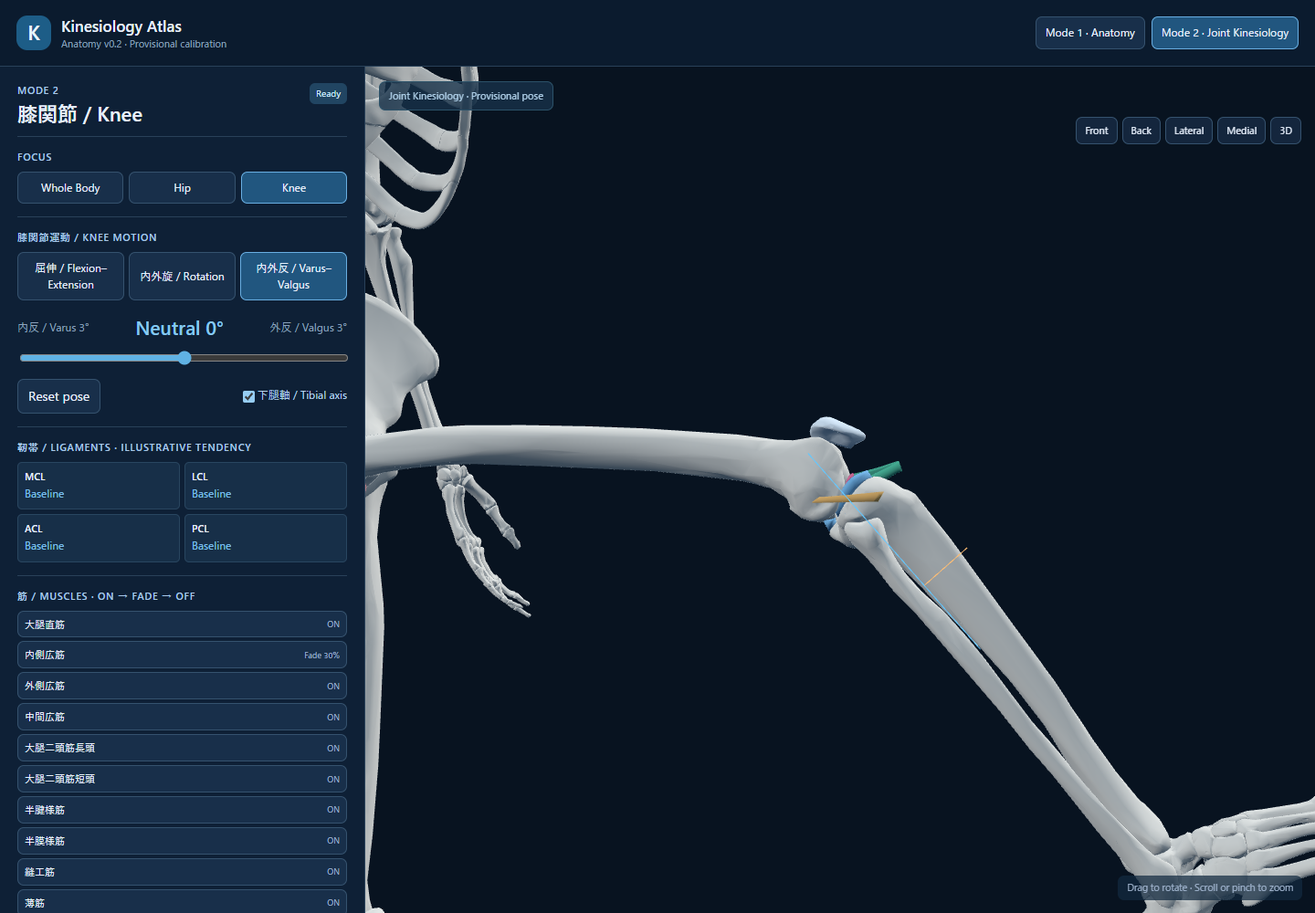
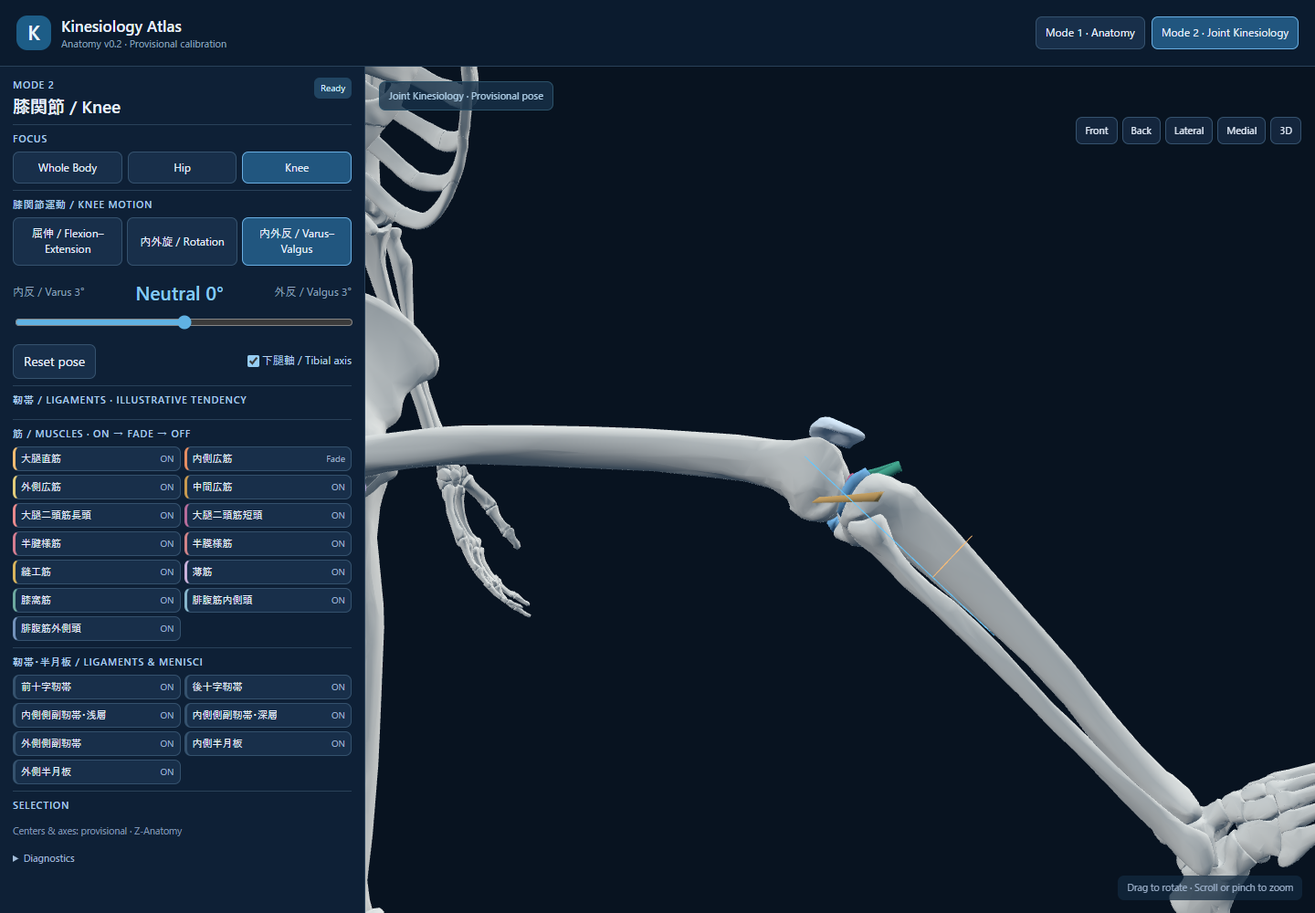
Restore Hip identity colors and compact panels; validate knee movement signs

diff --git a/src/main.js b/src/main.js
@@ -2,8 +2,10 @@ import * as THREE from 'three';
 import {OrbitControls} from 'three/addons/controls/OrbitControls.js';
 import {GLTFLoader} from 'three/addons/loaders/GLTFLoader.js';
 import {DRACOLoader} from 'three/addons/loaders/DRACOLoader.js';
-import {KNEE,PRESETS} from '../config/knee.js';
-import {screwHomeExternalRotationDeg,teachingLigamentTendency} from './kinematics.js';
+import {KNEE} from '../config/knee.js';
+import {teachingLigamentTendency} from './kinematics.js';
+import {muscleColors,hipLigamentColors} from './palette.js';
+import {kneePose} from './joint-motion.js';
 
 import {tissues,tissueByName,nextVisibility,relevant,focusStates,englishName,japaneseName} from './anatomy.js';
 
@@ -21,8 +23,8 @@ const BASES=[...(new URLSearchParams(location.search).has('localModels')?['.cach
 const assets=['skeletal','joints','muscular'];const modelSources=new Map(),liveRoots=[];const registered=new Map(),originalMaterials=new Map(),category=new Map(),meshInfo=new Map(),visibleStates=new Map();
 let poseTarget=null;
 let mode='anatomy',focus='body',motion='flex',motionValue=90,activeSelection=null;
+const motionValues={flex:90,rot:0,stress:0};
 let hipWorldPoint=null,kneeWorldPoint=null,kneeModelReady=false,sideSign=1,fullBox=null,kneeScale=1,modelLoaded=false,patellaBasePosition=new THREE.Vector3();
-const DEG=Math.PI/180;
 const tissueStates=focusStates('body');
 const materialPalette={bone:0xe6e0d5,patella:0xe3ecf1,acl:0xec739b,pcl:0xb88add,mcl:0x53c9a3,lcl:0xf1b96b,meniscus:0x79b6df,muscle:0xc98283};
 const rig={hip:new THREE.Group(),knee:new THREE.Group(),patella:new THREE.Group()};
@@ -39,7 +41,8 @@ function ancestryDepth(n){let k=0;for(let p=n.parent;p;p=p.parent)k++;return k}
 function flatten(){scene.updateMatrixWorld(true);for(let obj of [...registered.values()].sort((a,b)=>ancestryDepth(b)-ancestryDepth(a))){if(obj.parent!==scene)scene.attach(obj)}scene.updateMatrixWorld(true)}
 function getMeshes(name){const root=registered.get(name),meshes=[];if(!root)return meshes;root.traverse(o=>{if(o.isMesh&&nearestNamed(o)===name)meshes.push(o)});return meshes;}
 function baseMaterial(name){const kind=category.get(name);let color=materialPalette.bone;if(name==='Patella.r')color=materialPalette.patella;
- if(kind==='muscle')color=materialPalette.muscle;if(kind==='meniscus')color=materialPalette.meniscus;
+ if(kind==='muscle')color=muscleColors[name];if(kind==='meniscus')color=materialPalette.meniscus;
+ if(hipLigamentColors[name])color=hipLigamentColors[name];
  if(name.includes('Anterior cruciate'))color=materialPalette.acl;
  if(name.includes('Posterior cruciate'))color=materialPalette.pcl;
  if(name.includes('tibial collateral'))color=materialPalette.mcl;
@@ -62,7 +65,7 @@ function updateVisibility(){
 function cycleTissue(name){tissueStates.set(name,nextVisibility(tissueStates.get(name)));updateVisibility();if(activeSelection)selectStructure(activeSelection,{showFloating:!$('floatingSelection').hidden});}
 function syncTissueUI(){for(const row of document.querySelectorAll('[data-tissue]')){
  const name=row.dataset.tissue;row.hidden=!relevant(name,focus);row.dataset.state=tissueStates.get(name)||'off';
- row.querySelector('small').textContent=registered.has(name)?(row.dataset.state==='fade'?'Fade 30%':row.dataset.state.toUpperCase()):'Unavailable';
+ row.querySelector('small').textContent=registered.has(name)?(row.dataset.state==='fade'?'Fade':row.dataset.state.toUpperCase()):'Unavailable';
  row.disabled=!registered.has(name);
 }}
 // Fade only when left geometry overlaps the right skeleton in screen space and is nearer.
@@ -122,20 +125,11 @@ function buildAxis(){axisGroup.clear();const l=Math.max(kneeScale*1.35,.001);
  axisGroup.traverse(o=>{o.renderOrder=50});}
 function updatePose(){if(!kneeModelReady)return;
  const moving=mode==='kinesiology'&&focus==='knee';
- const flex=!moving?0:motion==='flex'?motionValue:motion==='rot'?90:30;
- const rot=moving&&motion==='rot'?motionValue:0;
- const valgus=moving&&motion==='stress'?motionValue:0;
- // Femur follows a fixed educational hip flexion posture; knee axes remain in the femoral local frame.
- const hipQ=new THREE.Quaternion().setFromAxisAngle(new THREE.Vector3(1,0,0),-(moving?KNEE.startingHipFlexionDeg:0)*DEG);
- const screw=!moving?0:screwHomeExternalRotationDeg(flex,KNEE.screwHomeMaxExternalRotationDeg,KNEE.screwHomeWindowDeg);
- const qFlex=new THREE.Quaternion().setFromAxisAngle(new THREE.Vector3(1,0,0),flex*DEG);
- const qRotation=new THREE.Quaternion().setFromAxisAngle(new THREE.Vector3(0,1,0),sideSign*(rot+screw)*DEG);
- const qStress=new THREE.Quaternion().setFromAxisAngle(new THREE.Vector3(0,0,1),-sideSign*valgus*DEG);
- const kneeQ=qFlex.multiply(qRotation).multiply(qStress);
+ const pose=kneePose(motion,motionValue,sideSign,{anatomy:!moving});const flex=pose.angles.flex;
  // Small, illustrative proximal/distal patellar glide; not a measured patellofemoral trajectory.
  const patellaPosition=patellaBasePosition.clone();
  patellaPosition.y-=(flex/140)*kneeScale*.10;
- poseTarget={hip:hipQ,knee:kneeQ,patella:patellaPosition};
+ poseTarget={hip:pose.hip,knee:pose.knee,patella:patellaPosition};
  axisGroup.visible=$('axisToggle').checked&&moving;
  const p=teachingLigamentTendency(motion,motionValue);
  $('ligamentStatus').innerHTML=['mcl','lcl','acl','pcl'].map(key=>`<div class="ligItem"><strong>${key.toUpperCase()}</strong><span>${({'強調':'Emphasized','通常':'Baseline','角度依存':'Angle dependent','弛緩傾向':'Reduced restraint'})[p[key]]||'Baseline'}</span></div>`).join('');
@@ -151,16 +145,16 @@ function frameFocus(f=focus){if(!modelLoaded)return;
 function setFocus(f){focus=f;activeSelection=null;$('selectedStructure').textContent='Click a structure';$('floatingSelection').hidden=true;
  for(const el of document.querySelectorAll('[data-focus]'))el.classList.toggle('selected',el.dataset.focus===f);
  for(const [name,state] of focusStates(f))tissueStates.set(name,state);
- if(f==='body'){motion='flex';motionValue=90;for(const b of document.querySelectorAll('[data-motion]'))b.classList.toggle('selected',b.dataset.motion==='flex');$('motionSlider').min=0;$('motionSlider').max=140;$('motionSlider').value=90;}
+ if(f==='body'){Object.assign(motionValues,{flex:90,rot:0,stress:0});setMotion('flex');}
  updateModeUI();updatePose();updateVisibility();
  // Focus is an intentional framing operation; frame the target pose rather than an intermediate tween.
  if(poseTarget){rig.hip.quaternion.copy(poseTarget.hip);rig.knee.quaternion.copy(poseTarget.knee);rig.patella.position.copy(poseTarget.patella);scene.updateMatrixWorld(true);}
  frameFocus(f);
 }
-function setMotion(m){motion=m;motionValue=PRESETS[m].knee===90?90:0;if(m==='rot'||m==='stress')motionValue=0;
+function setMotion(m){motion=m;motionValue=motionValues[m];
  for(const el of document.querySelectorAll('[data-motion]'))el.classList.toggle('selected',el.dataset.motion===m);
  const sl=$('motionSlider');const ranges={flex:[0,140,90,'伸展 / Extension 0°','屈曲 / Flexion 140°'],rot:[-15,30,0,'内旋 / Internal 15°','外旋 / External 30°'],stress:[-3,3,0,'内反 / Varus 3°','外反 / Valgus 3°']};
- const v=ranges[m];sl.min=v[0];sl.max=v[1];sl.value=v[2];motionValue=v[2];$('negativeLabel').textContent=v[3];$('positiveLabel').textContent=v[4];updatePose()}
+ const v=ranges[m];sl.min=v[0];sl.max=v[1];sl.value=motionValue;$('negativeLabel').textContent=v[3];$('positiveLabel').textContent=v[4];updatePose()}
 function updateModeUI(){
  const moving=mode==='kinesiology';
  $('motionSection').hidden=!(moving&&focus==='knee');
@@ -177,7 +171,8 @@ function setView(v){if(!modelLoaded)return;const target=controls.target.clone(),
  const dirs={front:[0,0,1],back:[0,0,-1],lateral:[sideSign,0,0],medial:[-sideSign,0,0],iso:[sideSign*.8,.4,1]};camera.position.copy(target).add(new THREE.Vector3(...dirs[v]).normalize().multiplyScalar(d));camera.up.set(0,1,0);controls.update();}
 function uiMuscleList(){for(const [name,jp,kind] of tissues){
  const b=document.createElement('button');b.type='button';b.dataset.tissue=name;
- const title=document.createElement('span');title.textContent=kind==='muscle'?jp:jp+' / '+englishName(name);const state=document.createElement('small');b.append(title,state);
+ const title=document.createElement('span');title.textContent=jp;const state=document.createElement('small');b.append(title,state);
+ const color=muscleColors[name]||hipLigamentColors[name];if(color)b.style.setProperty('--tissue-color','#'+color.toString(16).padStart(6,'0'));
  b.addEventListener('click',()=>cycleTissue(name));$(kind==='muscle'?'muscleList':'ligamentList').append(b);
 }}
 function highlightSelected(name){for(const [k,m] of originalMaterials){const picked=k===name&&visibleStates.get(k)!=='off';m.emissive.setHex(picked?0x2e7baa:0x000000);m.emissiveIntensity=picked?.12:0;}}
@@ -196,7 +191,7 @@ function selectStructure(name,{point=null,showFloating=true}={}){activeSelection
  for(const id of ['selectedStructure','floatingSelection']){const el=$(id);el.replaceChildren();
   const title=document.createElement('div');title.className='selectedName';title.textContent=japaneseName(name)||englishName(name);el.append(title);
   if(id==='floatingSelection'){const en=document.createElement('div');en.className='selectedEnglish';en.textContent=englishName(name);el.append(en);}
-  if(category.get(name)!=='bone'){const button=document.createElement('button');const state=tissueStates.get(name)||'off';button.textContent=state==='fade'?'Fade 30%':state.toUpperCase();button.addEventListener('click',()=>cycleTissue(name));el.append(button);}
+  if(category.get(name)!=='bone'){const button=document.createElement('button');const state=tissueStates.get(name)||'off';button.textContent=state==='fade'?'Fade':state.toUpperCase();button.addEventListener('click',()=>cycleTissue(name));el.append(button);}
   else {const label=document.createElement('small');label.textContent='Skeleton · ON';el.append(label);}
  }
  $('floatingSelection').hidden=!showFloating;positionSelection();
@@ -222,8 +217,8 @@ for(const b of document.querySelectorAll('[data-focus]'))b.addEventListener('cli
 for(const b of document.querySelectorAll('[data-view]'))b.addEventListener('click',()=>setView(b.dataset.view));
 for(const b of document.querySelectorAll('[data-motion]'))b.addEventListener('click',()=>setMotion(b.dataset.motion));
 $('axisToggle').addEventListener('change',updatePose);
-$('motionSlider').addEventListener('input',e=>{motionValue=+e.target.value;updatePose()});
-$('resetPose').addEventListener('click',()=>setMotion(motion));
+$('motionSlider').addEventListener('input',e=>{motionValue=+e.target.value;motionValues[motion]=motionValue;updatePose()});
+$('resetPose').addEventListener('click',()=>{motionValues[motion]=motion==='flex'?90:0;setMotion(motion)});
 $('mobilePanel').addEventListener('click',()=>{$('sidebar').classList.toggle('collapsed');size()});
 if(matchMedia('(max-width:740px)').matches)$('sidebar').classList.add('collapsed');
 async function loadOne(name){const errs=[];for(const base of BASES){try{
@@ -270,4 +265,4 @@ function tick(now=performance.now()){requestAnimationFrame(tick);const dt=Math.m
  controls.update();scene.updateMatrixWorld(true);fadeLeftSkeleton();renderer.render(scene,camera);
 }tick();boot();
 // Read-only QA snapshot, opt in locally with ?qa; no remote controls.
-if(new URLSearchParams(location.search).has('qa'))window.atlasQA=()=>({mode,focus,camera:camera.position.toArray(),target:controls.target.toArray(),states:Object.fromEntries(tissueStates),tissueMeshes:tissues.map(([n])=>({name:n,count:getMeshes(n).length,visible:getMeshes(n).every(m=>m.visible),opacity:originalMaterials.get(n)?.opacity})),focusNDC:(focus==='knee'?rig.knee.getWorldPosition(new THREE.Vector3()):hipWorldPoint?.clone())?.project(camera).toArray(),bones:[...category].filter(([,k])=>k==='bone').map(([n])=>({name:n,visible:getMeshes(n).every(m=>m.visible),opacity:originalMaterials.get(n).opacity})),registered:[...registered.keys()],hip:rig.hip.quaternion.toArray(),knee:rig.knee.quaternion.toArray()});
+if(new URLSearchParams(location.search).has('qa'))window.atlasQA=()=>({mode,focus,motion,motionValue,motionValues:{...motionValues},calibration:{status:KNEE.status,hipCenter:hipWorldPoint?.toArray(),kneeCenter:kneeWorldPoint?.toArray(),axes:{flex:[1,0,0],axial:[0,1,0],stress:[0,0,1]},sideSign},camera:camera.position.toArray(),target:controls.target.toArray(),states:Object.fromEntries(tissueStates),tissueMeshes:tissues.map(([n])=>({name:n,color:originalMaterials.get(n)?.color.getHex(),count:getMeshes(n).length,visible:getMeshes(n).every(m=>m.visible),opacity:originalMaterials.get(n)?.opacity})),focusNDC:(focus==='knee'?rig.knee.getWorldPosition(new THREE.Vector3()):hipWorldPoint?.clone())?.project(camera).toArray(),bones:[...category].filter(([,k])=>k==='bone').map(([n])=>({name:n,visible:getMeshes(n).every(m=>m.visible),opacity:originalMaterials.get(n).opacity})),registered:[...registered.keys()],hip:rig.hip.quaternion.toArray(),knee:rig.knee.quaternion.toArray()});

diff --git a/tests/ui/motion.spec.js b/tests/ui/motion.spec.js
@@ -1,0 +1,39 @@
+import {test,expect} from '@playwright/test';
+import path from 'node:path';
+import {writeFileSync} from 'node:fs';
+
+test('Knee motion directions, saved angles, mode continuity and compact panel',async({page})=>{
+ const errors=[];page.on('pageerror',e=>errors.push(e.message));
+ await page.route('https://cdn.jsdelivr.net/npm/three@0.160.0/**',r=>r.fulfill({path:path.resolve('node_modules/three',r.request().url().split('three@0.160.0/')[1])}));
+ await page.goto('http://127.0.0.1:8080/?localModels&qa');await expect(page.locator('#modelStatus')).toHaveText('Ready');
+ const snap=()=>page.evaluate(()=>window.atlasQA());
+ await page.locator('[data-focus="knee"]').click();await page.locator('[data-mode="kinesiology"]').click();
+ await expect.poll(async()=>Math.abs((await snap()).hip[0])).toBeGreaterThan(.706);
+ const initial=await snap();writeFileSync('test-results/joint-calibration.json',JSON.stringify(initial.calibration,null,2));
+ const input=async value=>{await page.locator('#motionSlider').evaluate((el,v)=>{el.value=v;el.dispatchEvent(new Event('input',{bubbles:true}));},String(value));};
+ await input(65);await expect(page.locator('#angleReadout')).toHaveText('65°');
+ await page.locator('[data-motion="rot"]').click();await input(20);await expect(page.locator('#angleReadout')).toContainText('External 20°');
+ await page.locator('[data-motion="flex"]').click();await expect(page.locator('#motionSlider')).toHaveValue('65');
+ await page.locator('[data-mode="anatomy"]').click();await page.locator('[data-mode="kinesiology"]').click();await expect(page.locator('#motionSlider')).toHaveValue('65');
+ await page.locator('[data-motion="stress"]').click();await input(3);await expect(page.locator('#angleReadout')).toContainText('Valgus 3°');
+ await expect.poll(async()=>(await snap()).knee[2]).toBeLessThan(0);
+ await input(-3);await expect(page.locator('#angleReadout')).toContainText('Varus 3°');await expect.poll(async()=>(await snap()).knee[2]).toBeGreaterThan(0);
+ await page.locator('#resetPose').click();await expect(page.locator('#motionSlider')).toHaveValue('0');
+ await page.locator('[data-motion="flex"]').click();await page.locator('#resetPose').click();await expect(page.locator('#motionSlider')).toHaveValue('90');
+ const end=await snap();expect(end.bones.every(b=>b.visible)).toBeTruthy();expect(end.states).toEqual(initial.states);
+ await page.setViewportSize({width:1280,height:800});
+ await page.screenshot({path:'test-results/knee-motion-compact.png'});
+ const panel=await page.locator('#sidebar').evaluate(el=>({overflow:el.scrollHeight-el.clientHeight,sections:[...el.children].map(c=>({label:c.textContent.slice(0,35),height:c.getBoundingClientRect().height}))}));
+ writeFileSync('test-results/panel-metrics.json',JSON.stringify(panel,null,2));expect(panel.overflow).toBeLessThanOrEqual(1);
+ // Review artifacts only: show the existing center candidate at viewport center.
+ // These crosshairs are injected by the test, never added to the product UI.
+ await page.setViewportSize({width:1440,height:1000});await page.locator('[data-mode="anatomy"]').click();await page.locator('[data-focus="knee"]').click();
+ await page.locator('[data-tissue]').evaluateAll(rows=>{for(const row of rows){if(row.hidden||row.disabled)continue;while(row.dataset.state!=='off')row.click();}});
+ const marker=await page.addStyleTag({content:'.viewport::after{content:"";position:absolute;left:calc(50% - 10px);top:calc(50% - 10px);width:20px;height:20px;border:1px solid #ff7474;border-radius:50%;pointer-events:none}'});
+ for(const view of ['front','lateral']){await page.locator(`[data-view="${view}"]`).click();await page.screenshot({path:`test-results/knee-center-${view}.png`});}
+ await page.locator('[data-mode="kinesiology"]').click();await expect.poll(async()=>Math.abs((await snap()).hip[0])).toBeGreaterThan(.706);
+ await page.screenshot({path:'test-results/knee-flexion90-review.png'});
+ await page.locator('[data-motion="stress"]').click();await input(3);await expect.poll(async()=>(await snap()).knee[2]).toBeLessThan(0);
+ await page.screenshot({path:'test-results/knee-valgus30-review.png'});await marker.evaluate(el=>el.remove());
+ expect(errors).toEqual([]);
+});

diff --git a/index.html b/index.html
@@ -10,12 +10,12 @@
  <div class="group"><label class="smallhead">Focus</label><div class="choicegrid"><button data-focus="body" class="selected" title="Reset to the whole body home view">Whole Body</button><button data-focus="hip">Hip</button><button data-focus="knee">Knee</button></div></div>
  <div id="motionSection" hidden>
   <div class="group"><label class="smallhead">膝関節運動 / Knee motion</label><div class="motionKinds"><button data-motion="flex" class="selected">屈伸 / Flexion–Extension</button><button data-motion="rot">内外旋 / Rotation</button><button data-motion="stress">内外反 / Varus–Valgus</button></div><div class="angleLabels"><span id="negativeLabel">伸展 / Extension 0°</span><strong id="angleReadout">90°</strong><span id="positiveLabel">屈曲 / Flexion 140°</span></div><input aria-label="Joint angle" type="range" id="motionSlider" min="0" max="140" step="1" value="90"><div class="inlineActions"><button id="resetPose">Reset pose</button><label class="check"><input type="checkbox" id="axisToggle">下腿軸 / Tibial axis</label></div></div>
-  <div class="group"><label class="smallhead">靭帯 / Ligaments · Illustrative tendency</label><div class="ligStatus" id="ligamentStatus"></div></div>
+  <details class="group"><summary class="smallhead">靭帯 / Ligaments · Illustrative tendency</summary><div class="ligStatus" id="ligamentStatus"></div></details>
  </div>
  <div class="group"><label class="smallhead">筋 / Muscles · ON → Fade → OFF</label><div id="muscleList" class="tissueList"></div></div>
  <div class="group"><label class="smallhead">靭帯・半月板 / Ligaments &amp; menisci</label><div id="ligamentList" class="tissueList"></div></div>
- <div class="group"><label class="smallhead">Selection</label><div id="selectedStructure" class="selection">Click a structure</div></div>
- <div class="smallprint">Provisional joint centers and axes: pending anatomical validation. Joint motion and tissue tracking are illustrative. Hip motion awaits calibration. Z-Anatomy derived meshes.</div>
+ <details class="group"><summary class="smallhead">Selection</summary><div id="selectedStructure" class="selection">Click a structure</div></details>
+ <div class="smallprint">Centers &amp; axes: provisional · Z-Anatomy</div>
  <details class="diagnostics"><summary>Diagnostics</summary><pre id="diagnostics">Initializing…</pre><label class="fileLabel">Load GLB files<input type="file" id="manualFiles" accept=".glb" multiple></label></details>
 </aside>
 <main id="viewport" class="viewport"><div id="canvasHost"></div><div class="viewTools"><button data-view="front">Front</button><button data-view="back">Back</button><button data-view="lateral" title="Right lateral">Lateral</button><button data-view="medial" title="Right medial">Medial</button><button data-view="iso">3D</button></div><div class="stageBadge" id="stageBadge">Anatomy</div><div id="hoverPopup" class="hoverPopup" hidden></div><div id="floatingSelection" class="floatingSelection selection" hidden></div><div class="loadOverlay" id="loadOverlay"><div class="loader"></div><strong>Loading anatomy models</strong><small>Internet connection required on first load</small></div><div class="stageFoot">Drag to rotate · Scroll or pinch to zoom</div></main></div>

diff --git a/tests/ui/atlas.spec.js b/tests/ui/atlas.spec.js
@@ -9,6 +9,11 @@ test('actual GLBs: Anatomy focus, display cycle, mode continuity and home',async
  const snap=()=>page.evaluate(()=>window.atlasQA());
  const initial=await snap();expect(initial.bones.length).toBeGreaterThan(150);expect(initial.bones.every(b=>b.visible)).toBeTruthy();
  expect(initial.tissueMeshes.every(t=>t.count>0&&t.visible)).toBeTruthy();
+ const muscles=initial.tissueMeshes.filter(t=>t.name.includes('Vastus')||t.name.includes('Gluteus')||t.name.includes('Rectus femoris'));
+ expect(new Set(muscles.map(t=>t.color)).size).toBe(muscles.length);
+ expect(await page.locator('#muscleList').evaluate(el=>getComputedStyle(el).gridTemplateColumns.split(' ').length)).toBe(2);
+ expect(await page.locator('#sidebar').evaluate(el=>el.scrollHeight-el.clientHeight)).toBeLessThanOrEqual(1);
+ expect(await page.locator('#sidebar').textContent()).not.toContain('30%');
  writeFileSync('test-results/model-summary.json',JSON.stringify({bones:initial.bones.length,registered:initial.registered.length},null,2));
  for(const f of ['hip','knee']){await page.locator(`[data-focus="${f}"]`).click();const s=await snap();expect(s.focus).toBe(f);expect(s.bones.length).toBe(initial.bones.length);expect(s.bones.every(b=>b.visible)).toBeTruthy();expect(Math.abs(s.focusNDC[0])).toBeLessThan(.001);expect(Math.abs(s.focusNDC[1])).toBeLessThan(.001);}
  const quad=page.locator('[data-tissue="Vastus medialis muscle.r"]');await expect(quad).toBeEnabled();
@@ -33,7 +38,7 @@ test('actual GLBs: Anatomy focus, display cycle, mode continuity and home',async
  const box=await page.locator('canvas').boundingBox();let picked=false,clickPoint;
  for(let dy=-.12;dy<=.12&&!picked;dy+=.06)for(let dx=-.12;dx<=.12&&!picked;dx+=.06){clickPoint={x:box.x+box.width*(.5+dx),y:box.y+box.height*(.5+dy)};await page.mouse.move(clickPoint.x,clickPoint.y);await page.mouse.click(clickPoint.x,clickPoint.y);picked=await page.locator('#floatingSelection button').isVisible();}
  expect(picked).toBeTruthy();const title=await page.locator('#floatingSelection .selectedName').textContent();
- const old=await page.locator('#floatingSelection button').textContent();const next=({'ON':'Fade 30%','Fade 30%':'OFF','OFF':'ON'})[old];
+ const old=await page.locator('#floatingSelection button').textContent();const next=({'ON':'Fade','Fade':'OFF','OFF':'ON'})[old];
  await page.locator('#floatingSelection button').click();await expect(page.locator('#selectedStructure button')).toHaveText(next);await expect(page.locator('#floatingSelection .selectedName')).toHaveText(title);
  const popup=await page.locator('#floatingSelection').boundingBox();expect(Math.abs(popup.x-clickPoint.x)).toBeLessThan(300);expect(Math.abs(popup.y-clickPoint.y)).toBeLessThan(160);
  await expect(page.locator('#floatingSelection .selectedEnglish')).not.toHaveText('');

diff --git a/src/style.css b/src/style.css
@@ -2,6 +2,19 @@
 
 @media(max-width:740px){.topbar{height:96px;flex-wrap:wrap;align-content:space-between;gap:4px}.brand{width:calc(100% - 72px)}.brand small{display:none}.modes{width:100%;order:3;justify-content:flex-start;gap:5px}.modes button{font-size:10px;padding:6px 7px}.mobileOnly{position:absolute;right:8px;top:8px;padding:5px 9px}.layout{height:calc(100dvh - 96px)}.sidebar{top:96px}.hipFrame{inset:96px 0 0}}
 .floatingSelection{position:absolute;z-index:10;max-width:min(280px,calc(100% - 16px));box-shadow:0 8px 24px #0008}
-.floatingSelection button{margin-top:8px}.tissueList{grid-template-columns:1fr}.tissueList small{flex-shrink:0}.tissueList span{overflow-wrap:anywhere}.viewTools{top:55px}.stageBadge{max-width:90%}
+.floatingSelection button{margin-top:8px}.tissueList{grid-template-columns:repeat(2,minmax(0,1fr))}.tissueList small{flex-shrink:0}.tissueList span{overflow-wrap:anywhere}.viewTools{top:55px}.stageBadge{max-width:90%}
 @media(max-width:740px){.viewTools{top:auto;bottom:65px}}
 .floatingSelection button{min-width:90px;min-height:44px}
+.sidebar{padding:12px 14px}.group{padding:7px 0}.group .smallhead{margin-bottom:6px}.sectionhead h1{font-size:19px;margin-bottom:9px}
+.tissueList button{min-height:27px;padding:3px 6px;border-left:3px solid var(--tissue-color,#35526e)}
+.tissueList button span{font-size:11px;line-height:1.25}.tissueList small{font-size:10px}
+.group .selection{min-height:32px;padding:6px}.ligStatus .ligItem{padding:4px 6px}
+@media(pointer:coarse){.tissueList button{min-height:36px}}
+@media(min-width:741px) and (max-height:850px){
+ .sidebar{padding:8px 12px}.sectionhead h1{font-size:17px;margin:3px 0 5px}.eyebrow{font-size:10px}
+ .group{padding:5px 0}.group .smallhead{margin-bottom:4px}.choicegrid button,.motionKinds button{padding:5px 3px}
+ .motionKinds button{font-size:10px;line-height:1.2}.angleLabels{margin-top:6px;font-size:10px}.angleLabels strong{font-size:17px}
+ .group input[type=range]{margin:4px 0}.inlineActions{margin-top:3px}.inlineActions button{padding:4px 7px;font-size:11px}
+ .tissueList{gap:3px}.tissueList button{min-height:24px;padding:2px 5px}
+ details.group{padding:3px 0;margin:0}.sidebar>.smallprint{display:none}
+}

diff --git a/src/palette.js b/src/palette.js
@@ -1,0 +1,17 @@
+// Hip identity colors preserved from the local legacy/hip reference.
+// Additional knee muscles receive stable, distinct identity colors.
+export const muscleColors=Object.freeze({
+ 'Gluteus maximus muscle.r':0xc45382,'Gluteus medius muscle.r':0xdc7197,'Gluteus minimus muscle.r':0xff97b3,
+ 'Iliacus muscle.r':0xeda75d,'Psoas major.r':0xeeb85d,'Rectus femoris muscle.r':0xf2bc72,'Sartorius muscle.r':0xd9b55d,
+ 'Adductor magnus.r':0xc7a4f0,'Adductor longus.r':0xb98cd9,'Adductor brevis.r':0x9c84d3,'Gracilis muscle.r':0xcbb2db,
+ 'Pectineus muscle.r':0x9db7d7,'Semitendinosus muscle.r':0xd47d91,'Semimembranosus muscle.r':0xd08388,'Long head of biceps femoris.r':0xe98a8d,
+ 'Piriformis muscle.r':0xd7a57c,'Obturator internus.r':0xe29c7c,'Obturator externus.r':0xd89077,'Quadratus femoris muscle.r':0xc98e7a,
+ 'Superior gemellus muscle.r':0xd6a088,'Inferior gemellus muscle.r':0xe0af99,
+ 'Vastus medialis muscle.r':0xe58d62,'Vastus lateralis muscle.r':0xe2cc7a,'Vastus intermedius muscle.r':0xc89a4f,
+ 'Short head of biceps femoris.r':0xb66c9b,'Popliteus muscle.r':0x6eaaa0,
+ 'Medial head of gastrocnemius.r':0x87b6cc,'Lateral head of gastrocnemius.r':0x7392bb
+});
+export const hipLigamentColors=Object.freeze({
+ 'Descending part of iliofemoral ligament.r':0x508efa,'Transverse part of iliofemoral ligament.r':0x508efa,
+ 'Pubofemoral ligament.r':0x36c98c,'Ischiofemoral ligament.r':0xfc9d55
+});

diff --git a/src/joint-motion.js b/src/joint-motion.js
@@ -1,0 +1,19 @@
+import {Quaternion,Vector3} from 'three';
+import {KNEE} from '../config/knee.js';
+import {activeKneeAngles,screwHomeExternalRotationDeg,clamp} from './kinematics.js';
+
+// Right body side is sideSign (negative X in the current GLB).
+// +Z anterior, +Y superior. Axes remain provisional model axes.
+export function kneePose(kind,value,sideSign,{anatomy=false}={}){
+ const ranges={flex:KNEE.flexionRange,rot:KNEE.axialRotationRange,stress:KNEE.stressRange};
+ const range=ranges[kind];if(!range)throw Error('Unknown knee motion: '+kind);
+ const angles=anatomy?{flex:0,rot:0,valgus:0}:activeKneeAngles(kind,clamp(value,...range));
+ const screw=anatomy?0:screwHomeExternalRotationDeg(angles.flex,KNEE.screwHomeMaxExternalRotationDeg,KNEE.screwHomeWindowDeg);
+ const rad=Math.PI/180;
+ const hip=new Quaternion().setFromAxisAngle(new Vector3(1,0,0),-(anatomy?0:KNEE.startingHipFlexionDeg)*rad);
+ const flex=new Quaternion().setFromAxisAngle(new Vector3(1,0,0),angles.flex*rad);
+ const axial=new Quaternion().setFromAxisAngle(new Vector3(0,1,0),sideSign*(angles.rot+screw)*rad);
+ // Positive valgus moves the distal right tibia toward the right lateral side.
+ const stress=new Quaternion().setFromAxisAngle(new Vector3(0,0,1),sideSign*angles.valgus*rad);
+ return {hip,knee:flex.multiply(axial).multiply(stress),angles,screw};
+}

diff --git a/docs/JOINT_MOTION_REVIEW.md b/docs/JOINT_MOTION_REVIEW.md
@@ -1,0 +1,47 @@
+# 関節運動の着手・中心/軸の確認資料
+
+2026-10-30。対象は右膝。解剖学的な中心・軸はまだFIXしていません。
+
+## 今回修正した部分
+
+- 内外反の回転符号が表示と逆だったため修正。外反で下腿遠位が右外側へ、内反で右内側へ向かうことを、局所座標によるテストで確認。
+- 運動種類は屈伸・内外旋・内外反の3種類。各スライダー角度を保持し、種類の切替やAnatomyとの往復で失わないようにしました。Reset poseとWhole Bodyは明示的なリセットです。
+- 姿勢計算を `src/joint-motion.js` に分離。股90°/膝90°、内外反時は膝30°、角度上限、Anatomyでの恒等姿勢、スクリューホームの屈伸従属をテスト。
+- 骨格、表示状態、視線方向・ズームの保持を実ブラウザーで再確認。
+
+## 現在の候補値
+
+値は取得済みGLBのシーン座標。診断スナップショットは [joint-calibration.json](joint-calibration.json)。
+
+| 項目 | X | Y | Z |
+|---|---:|---:|---:|
+| 股中心候補 | -0.082774261 | 0.861128910 | -0.005455872 |
+| 膝中心候補 | -0.076042742 | 0.438329458 | -0.034490695 |
+| 屈伸の仮軸 | 1 | 0 | 0 |
+| 長軸回旋の仮軸 | 0 | 1 | 0 |
+| 内外反の仮軸 | 0 | 0 | 1 |
+
+中心は現行の形状推定値を維持。今回行ったのはコードの符号・肢位・状態保持の検証で、生体関節の運動軸校正ではありません。
+
+赤丸は現行中心候補の投影位置を示す、検証画像専用の注記です。製品に新しい操作UIは追加していません。
+
+- [静止・前面](screenshots/knee-center-front.png)
+- [静止・右外側](screenshots/knee-center-lateral.png)
+- [股90°・膝90°の観察](screenshots/knee-flexion90-review.png)
+- [膝30°・外反の観察](screenshots/knee-valgus30-review.png)
+
+## FIX前の注意点・次の工程
+
+固定ピボットの回転は、生体膝の接触点移動やrollbackを再現していません。実験研究で示される膝の回転軸は単純なグローバルX/Y/Zとは一致しないため、この軸を検証済みとして扱いません。[Hollister et al., The axes of rotation of the knee (1993)](https://pubmed.ncbi.nlm.nih.gov/8472457/)
+
+終末伸展の外旋連動は模式値9°のままです。一次研究は伸展に伴う連動回旋を示しますが、このアセットの角度や軌道を保証する根拠にはしていません。[Three-dimensional kinematics of the human knee with intracortical pin fixation (1997)](https://pubmed.ncbi.nlm.nih.gov/9345219/)
+
+中心・軸の解剖学的検証FIX → カメラ最終FIX → 運動軌道 → 靭帯動態の順序を維持します。筋の曲がった肢位への変形、靭帯の伸縮、半月板・膝蓋骨の正しい動態は未実装のままです。表示状態を維持するため、模式運動時にも表示中の筋は残りますが、静止座標に留まる制約があります。Hip運動UIの共通シーン統合も後続です。
+
+## 検証
+
+- `npm run check`: PASS。
+- `npm test`: 6/6 PASS。
+- `npm run test:ui`: 2/2 PASS。実GLB、Windows Edge。
+- 左パネルの通常状態: 1440×1000 Whole Body Anatomy、1280×800 Knee Joint Kinesiologyで縦スクロール超過0px。開いた詳細欄や小型端末ではスクロールが発生する場合があります。[計測値](panel-metrics.json)
+

diff --git a/docs/ARCHITECTURE.md b/docs/ARCHITECTURE.md
@@ -10,6 +10,8 @@
 
 ## 名称と表示
 
+筋の識別色は `src/palette.js` に固定。共通筋はHip版と同じ色を使い、全28筋を個別色にしています。左パネルは日本語名・2列配置、日英名は3Dポップアップ内。表示名はON / Fade / OFFで、内部のFade不透明度は0.3です。
+
 `src/anatomy.js` の39組織は実GLBの `extras.za_name` と完全一致。28筋、9靭帯、2半月板。広筋の名前には `muscle` が必要です。日本語骨名は辞書と指骨・肋骨・椎骨等のパターンで対応し、実GLBの277骨格構造すべての対応をテストしています。
 
 組織単位の `tissueStates` が左行・選択欄・フローティング操作の唯一の状態源です。骨には表示トグルを置きません。投影した左骨格の境界箱が、右骨格に重なり、かつ手前なら30%不透明にします。境界箱による保守的な推定で、ピクセル単位の遮蔽判定ではありません。
@@ -23,6 +25,8 @@
 股・膝中心推定の係数はconfig/knee.jsに集約。骨形状からの暫定推定であり、未FIXです。回転軸は現在の局所X/Y/Zの試作。外側の符号は左右の大腿骨位置から決めます。
 
 Mode 1は解剖学的肢位。Mode 2 Kneeの屈伸・内外旋は股90°/膝90°、内外反は股90°/膝30°が基準です。スクリューホーム、半月板の脛骨への追従、模式的な膝蓋骨移動は屈伸に従属し、独立モードはありません。下腿軸のみON/OFF可能です。
+
+膝の姿勢計算は `src/joint-motion.js`。各運動の角度を別々に記憶し、Mode/運動種類の変更ではリセットしません。内外反の符号・観察肢位・上限は数学的にテストしています。中心・軸の検証資料は `docs/JOINT_MOTION_REVIEW.md`。
 
 既存の模式運動を残した基盤で、正しい生体運動をFIXしたリリースではありません。筋はAnatomyの元形状に留まり、靭帯は剛体追従で伸縮せず、半月板は脛骨と剛体移動、膝蓋骨は小さな直線移動のみです。Hip FocusのMode 2は同一シーンで状態を保持しますが、旧Hipの完成済み運動操作を統合していません。
 

diff --git a/docs/RELEASE_V0.2.md b/docs/RELEASE_V0.2.md
@@ -4,6 +4,16 @@
 
 ## UI追補
 
+### 色分け・2列表示の復元と関節運動の着手
+
+- `src/palette.js` にHip版の筋の色表を移植。共通21筋は元と同一、追加の膝7筋は個別色。全28筋の色を保持し、Fade/OFFの往復やMode切替で色が変わらないようにしています。
+- 組織リストはデフォルト2列。左リストは筋・靭帯とも日本語名、日英名はホバー/クリックのフロートで確認。Fadeの「30%」表記をUIから除去（内部の不透明度は0.3を維持）。
+- 通常時の左パネルを実測し、1440×1000のWhole Body Anatomyと1280×800のKnee Joint Kinesiologyで縦スクロール超過0px。重複するSelectionと定性的靭帯情報は必要時に開く詳細欄に集約。小型端末のタッチ行は高さを確保。
+- 右膝の内外反符号を修正。運動種類ごとに角度保持。中心候補・軸と検証画像は [関節運動の確認資料](JOINT_MOTION_REVIEW.md)。解剖学的FIXは未実施。
+- 最新検証は `npm run check` PASS、`npm test` 6/6 PASS、実GLBのEdge UI検証2/2 PASS。
+
+### フロート位置の改善（先行修正）
+
 - 左の筋リストと選択欄は日本語名のみ。日英名はホバーのポップアップと3Dクリックのフロートに表示。
 - 表示切替フロートを左下固定から、クリック／タップ位置の近くに変更。画面端では内側に収め、タッチ操作できる44pxのボタンを配置。OFF後もその位置でONへ戻せます。
 - 空白クリックや3D回転開始でフロートを閉じます。左の組織操作は閉じたフロートを勝手に開きません。
